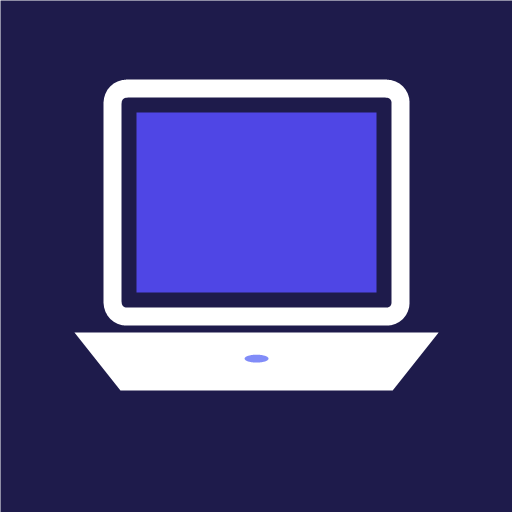
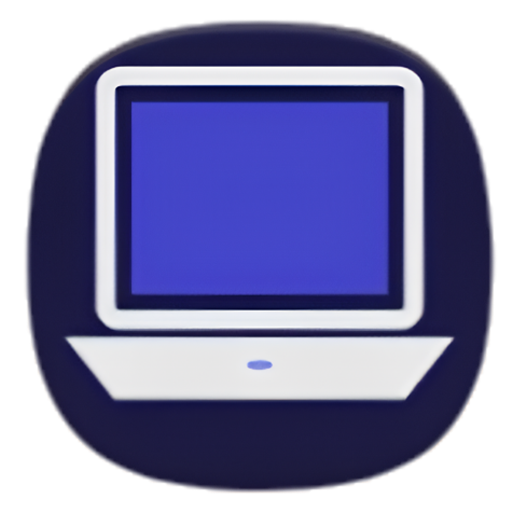
Add files via upload

diff --git a/index.html b/index.html
@@ -9,7 +9,7 @@
   <link rel="manifest" href="manifest.webmanifest" />
   <link rel="icon" type="image/png" sizes="192x192" href="icons/icon-192.png" />
   <link rel="apple-touch-icon" href="icons/icon-192.png" />
-  <title>EduLogística — Controle de Equipamentos</title>
+  <title>LembretesEduTec — Lembretes escolares</title>
   <!-- Tailwind CSS -->
   <script src="https://cdn.tailwindcss.com"></script>
   <!-- Google Fonts: Inter -->
@@ -78,9 +78,9 @@
   <section id="login-screen" class="fixed inset-0 z-[100] flex items-center justify-center bg-brand-900 px-4 py-8">
     <div class="w-full max-w-sm rounded-2xl bg-white p-6 sm:p-8 shadow-2xl">
       <div class="flex items-center gap-3 mb-6">
-        <div class="rounded-xl bg-indigo-100 p-3 text-indigo-700"><i data-lucide="laptop-2" class="h-6 w-6"></i></div>
+        <img src="icons/icon-192.png" alt="" class="h-12 w-12 rounded-xl object-contain" />
         <div>
-          <h1 class="text-xl font-extrabold text-slate-900">EduLogística</h1>
+          <h1 class="text-xl font-extrabold text-slate-900">LembretesEduTec</h1>
           <p id="login-subtitle" class="text-xs text-slate-500">Acesse sua conta para continuar</p>
         </div>
       </div>
@@ -152,11 +152,11 @@
         <!-- Logo e Título -->
         <div class="flex items-center gap-3">
           <div class="bg-indigo-500/20 border border-indigo-400/30 p-2.5 rounded-xl">
-            <i data-lucide="laptop-2" class="w-6 h-6 text-indigo-300"></i>
+            <img src="icons/icon-192.png" alt="" class="w-8 h-8 rounded-lg object-contain" />
           </div>
           <div>
             <h1 class="text-lg sm:text-xl font-bold tracking-tight leading-tight flex items-center gap-2">
-              EduLogística
+              LembretesEduTec
               <span class="hidden sm:inline-block text-[11px] font-semibold uppercase tracking-wider bg-indigo-500/30 text-indigo-200 px-2 py-0.5 rounded-full border border-indigo-400/20">
                 Tecnologia Educacional
               </span>
@@ -352,11 +352,11 @@
 
   <main id="professor-view" class="hidden flex-1 max-w-7xl w-full mx-auto px-4 sm:px-6 lg:px-8 py-6 space-y-6" aria-labelledby="professor-heading">
     <section class="bg-white rounded-2xl p-5 sm:p-6 border border-slate-200 shadow-sm space-y-5">
-      <div class="flex items-start gap-3"><div class="w-11 h-11 shrink-0 rounded-xl bg-indigo-50 text-indigo-600 flex items-center justify-center"><i data-lucide="map-pin" class="w-5 h-5"></i></div><div><h2 id="professor-heading" class="text-lg font-bold text-slate-900">Localizador de professores</h2><p class="text-sm text-slate-500 mt-1">Escolha um professor, o dia e o horário para localizar a turma.</p></div></div>
+      <div class="flex flex-wrap items-start justify-between gap-3"><div class="flex items-start gap-3"><div class="w-11 h-11 shrink-0 rounded-xl bg-indigo-50 text-indigo-600 flex items-center justify-center"><i data-lucide="map-pin" class="w-5 h-5"></i></div><div><h2 id="professor-heading" class="text-lg font-bold text-slate-900">Localizador de professores</h2><p class="text-sm text-slate-500 mt-1">Acompanhe a turma do professor no horário atual ou consulte outra faixa.</p></div></div><button id="professor-now-button" type="button" onclick="followCurrentProfessorSchedule()" class="inline-flex items-center gap-1.5 rounded-lg border border-indigo-200 bg-indigo-50 px-3 py-2 text-xs font-semibold text-indigo-700 hover:bg-indigo-100"><i data-lucide="clock-3" class="h-4 w-4"></i><span>Seguindo horário atual</span></button></div>
       <div class="grid grid-cols-1 sm:grid-cols-3 gap-3">
         <div><label for="professor-select" class="block text-xs font-semibold text-slate-700 mb-1.5">Professor(a)</label><select id="professor-select" onchange="renderProfessorLocator()" class="w-full rounded-xl border border-slate-300 bg-slate-50 px-3 py-2.5 text-sm focus:outline-none focus:ring-2 focus:ring-indigo-500"><option value="">Selecione um professor</option></select></div>
-        <div><label for="professor-day" class="block text-xs font-semibold text-slate-700 mb-1.5">Dia da semana</label><select id="professor-day" onchange="renderProfessorLocator()" class="w-full rounded-xl border border-slate-300 bg-slate-50 px-3 py-2.5 text-sm focus:outline-none focus:ring-2 focus:ring-indigo-500"></select></div>
-        <div><label for="professor-time" class="block text-xs font-semibold text-slate-700 mb-1.5">Horário</label><select id="professor-time" onchange="renderProfessorLocator()" class="w-full rounded-xl border border-slate-300 bg-slate-50 px-3 py-2.5 text-sm focus:outline-none focus:ring-2 focus:ring-indigo-500"></select></div>
+        <div><label for="professor-day" class="block text-xs font-semibold text-slate-700 mb-1.5">Dia da semana</label><select id="professor-day" onchange="handleProfessorScheduleSelection()" class="w-full rounded-xl border border-slate-300 bg-slate-50 px-3 py-2.5 text-sm focus:outline-none focus:ring-2 focus:ring-indigo-500"></select></div>
+        <div><label for="professor-time" class="block text-xs font-semibold text-slate-700 mb-1.5">Horário</label><select id="professor-time" onchange="handleProfessorScheduleSelection()" class="w-full rounded-xl border border-slate-300 bg-slate-50 px-3 py-2.5 text-sm focus:outline-none focus:ring-2 focus:ring-indigo-500"></select></div>
       </div>
     </section>
     <section id="professor-current-location" aria-live="polite"></section>
@@ -369,7 +369,7 @@
   <!-- Rodapé -->
   <footer class="bg-white border-t border-slate-200 py-4 mt-8">
     <div class="max-w-7xl mx-auto px-4 sm:px-6 lg:px-8 flex flex-col sm:flex-row items-center justify-between gap-2 text-xs text-slate-500">
-      <p>EduLogística — Assistente pessoal para entrega e recolhimento de equipamentos escolares.</p>
+      <p>LembretesEduTec — Assistente pessoal para entrega e recolhimento de equipamentos escolares.</p>
       <p>Dados salvos localmente no seu navegador.</p>
     </div>
   </footer>
@@ -765,6 +765,8 @@ const PROFESSOR_SCHEDULE_ROWS = `0|07:00-07:50|24:0,10:1,22:2,11:3,13:4,19:5,16:
     };
     let firebaseAuth = null;
     let firebaseDb = null;
+    let professorLocatorFollowsCurrent = true;
+    let professorScheduleIsWeekend = false;
     let currentUser = null;
     let cloudSyncReady = false;
     let cloudSaveTimer = null;
@@ -974,7 +976,7 @@ const PROFESSOR_SCHEDULE_ROWS = `0|07:00-07:50|24:0,10:1,22:2,11:3,13:4,19:5,16:
         return;
       }
       if (Notification.permission === 'granted') {
-        new Notification('EduLogística', {
+        new Notification('LembretesEduTec', {
           body: 'As notificações já estão ativas neste dispositivo!'
         });
         updateHeaderControls();
@@ -984,7 +986,7 @@ const PROFESSOR_SCHEDULE_ROWS = `0|07:00-07:50|24:0,10:1,22:2,11:3,13:4,19:5,16:
         updateHeaderControls();
         if (perm === 'granted') {
           showToast('Notificações do navegador ativadas!', 'success');
-          new Notification('EduLogística Ativado', {
+          new Notification('LembretesEduTec Ativado', {
             body: 'Você será avisado antes das entregas e recolhimentos.'
           });
         } else {
@@ -1067,12 +1069,51 @@ const PROFESSOR_SCHEDULE_ROWS = `0|07:00-07:50|24:0,10:1,22:2,11:3,13:4,19:5,16:
         (showProfessor ? 'bg-slate-100 text-slate-600 hover:bg-indigo-50 hover:text-indigo-700' : 'bg-indigo-600 text-white');
       professorTab.className = 'app-tab rounded-xl px-4 py-2 text-sm font-semibold transition ' +
         (showProfessor ? 'bg-indigo-600 text-white' : 'bg-slate-100 text-slate-600 hover:bg-indigo-50 hover:text-indigo-700');
-      if (showProfessor) renderProfessorLocator();
+      if (showProfessor) {
+        if (professorLocatorFollowsCurrent) updateProfessorLocatorTime();
+        else renderProfessorLocator();
+      }
       lucide.createIcons();
     }
 
     function formatProfessorTime(time) {
       return time.replace('-', ' às ');
+    }
+
+    function updateProfessorLocatorTime(now = new Date()) {
+      const daySelect = document.getElementById('professor-day');
+      const timeSelect = document.getElementById('professor-time');
+      if (!daySelect || !timeSelect) return;
+
+      const weekday = now.getDay();
+      professorScheduleIsWeekend = weekday === 0 || weekday === 6;
+      daySelect.value = String(professorScheduleIsWeekend ? 0 : weekday - 1);
+      const currentMinutes = now.getHours() * 60 + now.getMinutes();
+      const currentTime = PROFESSOR_TIME_OPTIONS.find(time => {
+        const [start, end] = time.split('-').map(value => {
+          const [hours, minutes] = value.split(':').map(Number);
+          return hours * 60 + minutes;
+        });
+        return currentMinutes >= start && currentMinutes < end;
+      });
+      timeSelect.value = currentTime || '';
+      renderProfessorLocator();
+    }
+
+    function handleProfessorScheduleSelection() {
+      professorLocatorFollowsCurrent = false;
+      professorScheduleIsWeekend = false;
+      const label = document.querySelector('#professor-now-button span');
+      if (label) label.textContent = 'Ir para o horário atual';
+      renderProfessorLocator();
+    }
+
+    function followCurrentProfessorSchedule() {
+      professorLocatorFollowsCurrent = true;
+      professorScheduleIsWeekend = false;
+      const label = document.querySelector('#professor-now-button span');
+      if (label) label.textContent = 'Seguindo horário atual';
+      updateProfessorLocatorTime();
     }
 
     function initializeProfessorLocator() {
@@ -1083,26 +1124,14 @@ const PROFESSOR_SCHEDULE_ROWS = `0|07:00-07:50|24:0,10:1,22:2,11:3,13:4,19:5,16:
         .map(name => '<option value="' + escapeHTML(name) + '">' + escapeHTML(name) + '</option>').join('');
       daySelect.innerHTML = PROFESSOR_SCHEDULE_DAYS
         .map((name, index) => '<option value="' + index + '">' + name + '</option>').join('');
-      timeSelect.innerHTML = PROFESSOR_TIME_OPTIONS.map(time => {
+      timeSelect.innerHTML = '<option value="">Fora do horário escolar</option>' + PROFESSOR_TIME_OPTIONS.map(time => {
         let note = '';
         if (time === '09:30-09:50' || time === '16:00-16:20') note = ' · Intervalo';
         if (time === '12:20-13:30') note = ' · Almoço';
         return '<option value="' + time + '">' + formatProfessorTime(time) + note + '</option>';
       }).join('');
 
-      const weekday = new Date().getDay();
-      daySelect.value = String(weekday >= 1 && weekday <= 5 ? weekday - 1 : 0);
-      const now = new Date();
-      const currentMinutes = now.getHours() * 60 + now.getMinutes();
-      const currentTime = PROFESSOR_TIME_OPTIONS.find(time => {
-        const [start, end] = time.split('-').map(value => {
-          const [hours, minutes] = value.split(':').map(Number);
-          return hours * 60 + minutes;
-        });
-        return currentMinutes >= start && currentMinutes < end;
-      });
-      if (currentTime) timeSelect.value = currentTime;
-      renderProfessorLocator();
+      updateProfessorLocatorTime();
     }
 
     function refreshProfessorLocatorOptions() {
@@ -1261,12 +1290,15 @@ const PROFESSOR_SCHEDULE_ROWS = `0|07:00-07:50|24:0,10:1,22:2,11:3,13:4,19:5,16:
       const currentEntries = (selectedSlot?.entries || []).filter(entry => entry.teacher === teacher);
       const isInterval = time === '09:30-09:50' || time === '16:00-16:20';
       const isLunch = time === '12:20-13:30';
+      const dayLabel = professorScheduleIsWeekend && professorLocatorFollowsCurrent
+        ? 'Fim de semana'
+        : PROFESSOR_SCHEDULE_DAYS[day];
       const statusText = isInterval ? 'Este horário corresponde ao intervalo.' :
         isLunch ? 'Este horário corresponde ao almoço.' :
         'Não há aula desse professor nesta faixa de horário.';
       currentContainer.innerHTML = '<div class="rounded-2xl border-2 border-indigo-400 bg-indigo-50 p-5 sm:p-6 shadow-sm">' +
         '<p class="text-xs font-bold uppercase tracking-wide text-indigo-700">Localização no horário selecionado · ' +
-          escapeHTML(PROFESSOR_SCHEDULE_DAYS[day]) + ' · ' + escapeHTML(formatProfessorTime(time)) + '</p>' +
+          escapeHTML(dayLabel) + ' · ' + escapeHTML(time ? formatProfessorTime(time) : 'Fora do horário escolar') + '</p>' +
         '<h3 class="text-xl font-extrabold text-slate-900 mt-2">' + escapeHTML(teacher) + '</h3>' +
         (currentEntries.length
           ? '<div class="mt-4 flex flex-wrap gap-2">' + currentEntries.map(entry =>
@@ -1280,7 +1312,9 @@ const PROFESSOR_SCHEDULE_ROWS = `0|07:00-07:50|24:0,10:1,22:2,11:3,13:4,19:5,16:
         .filter(slot => slot.day === day)
         .flatMap(slot => slot.entries.filter(entry => entry.teacher === teacher)
           .map(entry => ({ time: slot.time, className: entry.className })));
-      summary.textContent = dayEntries.length
+      summary.textContent = professorScheduleIsWeekend && professorLocatorFollowsCurrent
+        ? 'Hoje não há horário escolar. O localizador automático retoma na segunda-feira.'
+        : dayEntries.length
         ? dayEntries.length + (dayEntries.length === 1 ? ' aula registrada' : ' aulas registradas') + ' para ' + teacher + ' na ' + PROFESSOR_SCHEDULE_DAYS[day] + '.'
         : 'Não há aulas registradas para este professor neste dia.';
       dayList.innerHTML = dayEntries.length
@@ -2507,13 +2541,25 @@ const PROFESSOR_SCHEDULE_ROWS = `0|07:00-07:50|24:0,10:1,22:2,11:3,13:4,19:5,16:
       initializeAuthentication();
 
       if ('serviceWorker' in navigator && window.isSecureContext) {
-        navigator.serviceWorker.register('./service-worker.js').catch((error) => {
-          console.warn('Não foi possível ativar o modo de instalação/offline:', error);
+        let refreshingForUpdate = false;
+        navigator.serviceWorker.addEventListener('controllerchange', () => {
+          if (refreshingForUpdate) return;
+          refreshingForUpdate = true;
+          window.location.reload();
         });
+        navigator.serviceWorker.register('./service-worker.js', { updateViaCache: 'none' })
+          .then(registration => registration.update())
+          .catch((error) => console.warn('Não foi possível atualizar o app:', error));
       }
 
       // Atualiza o relógio e verifica prazos a cada 5 segundos
       setInterval(updateClockAndMonitor, 5000);
+      setInterval(() => {
+        const professorView = document.getElementById('professor-view');
+        if (professorLocatorFollowsCurrent && professorView && !professorView.classList.contains('hidden')) {
+          updateProfessorLocatorTime();
+        }
+      }, 30000);
     });
   </script>
 </body>

diff --git a/service-worker.js b/service-worker.js
@@ -1,4 +1,4 @@
-const CACHE_NAME = 'edulogistica-shell-v8';
+const CACHE_NAME = 'lembretes-edutec-shell-v9';
 const APP_SHELL = [
   './',
   './index.html',
